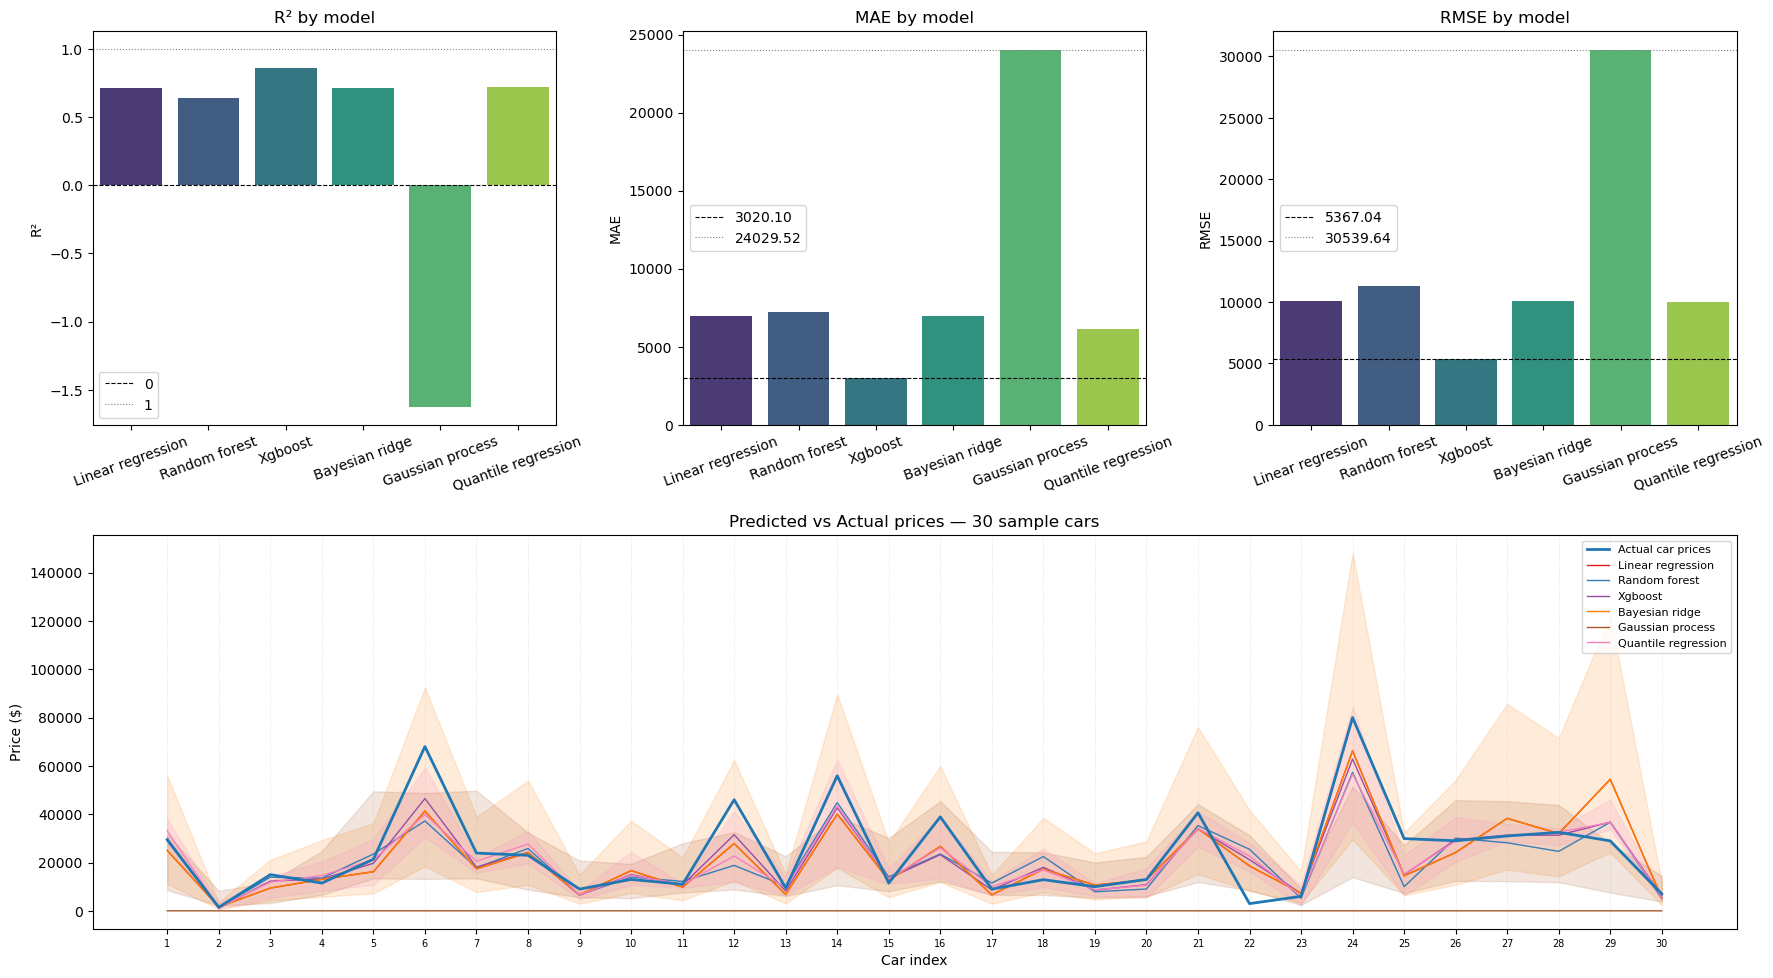
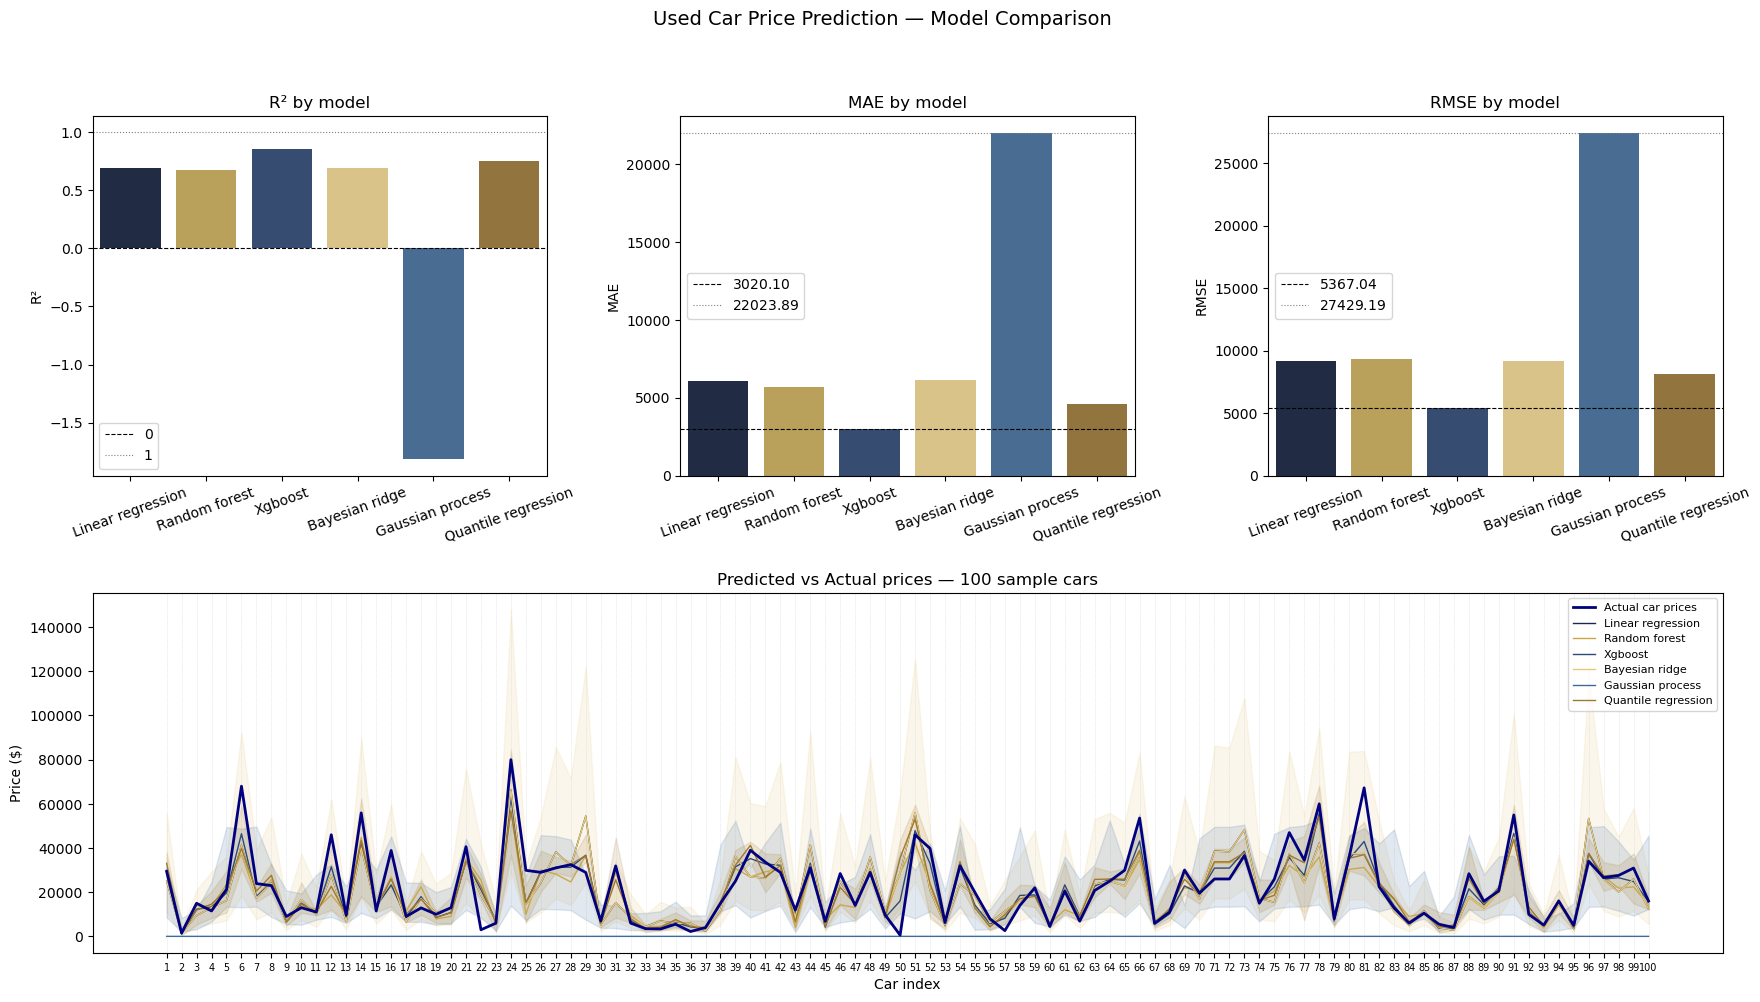
Final touches

diff --git a/diagrams.py b/diagrams.py
@@ -1,8 +1,16 @@
 import json
-import numpy as np
 import matplotlib.pyplot as plt
 import seaborn as sns
 
+custom_colors = [
+    "#1B2A4A",  # dark navy blue — actual prices
+    "#C9A84C",  # beige gold
+    "#2E4A7A",  # medium blue
+    "#E8C97A",  # light gold
+    "#3D6B9E",  # steel blue
+    "#A07830",  # dark gold/bronze
+    "#6B9BC4",  # pale blue
+]
 
 def main():
     with open("model_results.json", "r") as f:
@@ -18,9 +26,10 @@ def main():
         ["scatter", "scatter", "scatter"]
     ])
     
+    plt.suptitle("Used Car Price Prediction — Model Comparison", fontsize=14, y=1.01)
 
     model_r2 = [models[name]["r2"] for name in model_names]
-    sns.barplot(x=model_names, y=model_r2, ax=axes["r2"], palette="viridis")
+    sns.barplot(x=model_names, y=model_r2, ax=axes["r2"], palette=custom_colors)
     axes["r2"].set_title("R² by model")
     axes["r2"].set_ylabel("R²")
     axes["r2"].set_xticklabels(model_names, rotation=20)
@@ -29,7 +38,7 @@ def main():
     axes["r2"].legend()
     
     model_mae = [models[name]["mae"] for name in model_names]
-    sns.barplot(x=model_names, y=model_mae, ax=axes["mae"], palette="viridis")
+    sns.barplot(x=model_names, y=model_mae, ax=axes["mae"], palette=custom_colors)
     axes["mae"].set_title("MAE by model")
     axes["mae"].set_ylabel("MAE")
     axes["mae"].set_xticklabels(model_names, rotation=20)
@@ -38,7 +47,7 @@ def main():
     axes["mae"].legend()
     
     model_rmse = [models[name]["rmse"] for name in model_names]
-    sns.barplot(x=model_names, y=model_rmse, ax=axes["rmse"], palette="viridis")
+    sns.barplot(x=model_names, y=model_rmse, ax=axes["rmse"], palette=custom_colors)
     axes["rmse"].set_title("RMSE by model")
     axes["rmse"].set_ylabel("RMSE")
     axes["rmse"].set_xticklabels(model_names, rotation=20)
@@ -46,19 +55,24 @@ def main():
     axes["rmse"].axhline(y=max(model_rmse), color="gray", linewidth=0.8, linestyle=":", label=f"${max(model_rmse):.2f}$")
     axes["rmse"].legend()
     
-    axes["scatter"].plot(range(len(actual_prices)), actual_prices, '-', linewidth=2, label="Actual car prices", zorder=5)
+    ####### Scatter plot of predictions vs actual prices
+    axes["scatter"].plot(range(len(actual_prices)), 
+                         actual_prices, '-', 
+                         linewidth=2,
+                         color="navy", 
+                         label="Actual car prices", zorder=5)
     #colors = plt.cm.viridis(np.linspace(0, 1, len(model_names)))
-    colors = [plt.cm.tab10(i) for i in range(len(model_names))]
+    #colors = [plt.cm.tab10(i) for i in range(len(model_names))]
     
     for i, name in enumerate(model_names):
         preds = models[name]["predictions"]
         lower = models[name]["lower_bound"]
         upper = models[name]["upper_bound"]
         axes["scatter"].plot(range(len(preds)), preds,
-                            color=colors[i], linewidth=1, label=name)
+                            color=custom_colors[i], linewidth=1, label=name)
         if lower and upper:
             axes["scatter"].fill_between(range(len(preds)), lower, upper,
-                                        color=colors[i], alpha=0.15)
+                                        color=custom_colors[i], alpha=0.15)
             
     axes["scatter"].set_title(f"Predicted vs Actual prices — {len(actual_prices)} sample cars")
     axes["scatter"].set_xlabel("Car index")
@@ -69,12 +83,12 @@ def main():
     axes["scatter"].set_xticks(range(len(actual_prices)))
     axes["scatter"].xaxis.grid(True, linestyle=':', linewidth=0.5, alpha=0.5)
     axes["scatter"].set_axisbelow(True)
-
-    
+    axes["scatter"].grid(axis='x', linestyle=':', linewidth=0.5, alpha=0.5)
+    axes["scatter"].set_axisbelow(True)
     
     plt.tight_layout(pad=2.0)
     plt.savefig("model_comparison.png", bbox_inches="tight")
-
+    plt.savefig("dashboard.pdf", bbox_inches="tight", dpi=300)
 
     plt.show()
 

diff --git a/learn.py b/learn.py
@@ -1,5 +1,4 @@
 import pandas as pd
-import seaborn as seaborn
 import numpy as np
 from sklearn.model_selection import train_test_split
 from sklearn.compose import ColumnTransformer
@@ -149,7 +148,7 @@ def save_model_results(x_train, y_train, x_test, y_test, *models: list[callable]
     if not os.path.exists(MODELS_DIR):
         os.makedirs(MODELS_DIR)
         
-    sample_cars = x_test.sample(n=30, random_state=42)
+    sample_cars = x_test.sample(n=100, random_state=42)
     sample_prices = y_test.loc[sample_cars.index]    
     
     result_dir = {}
